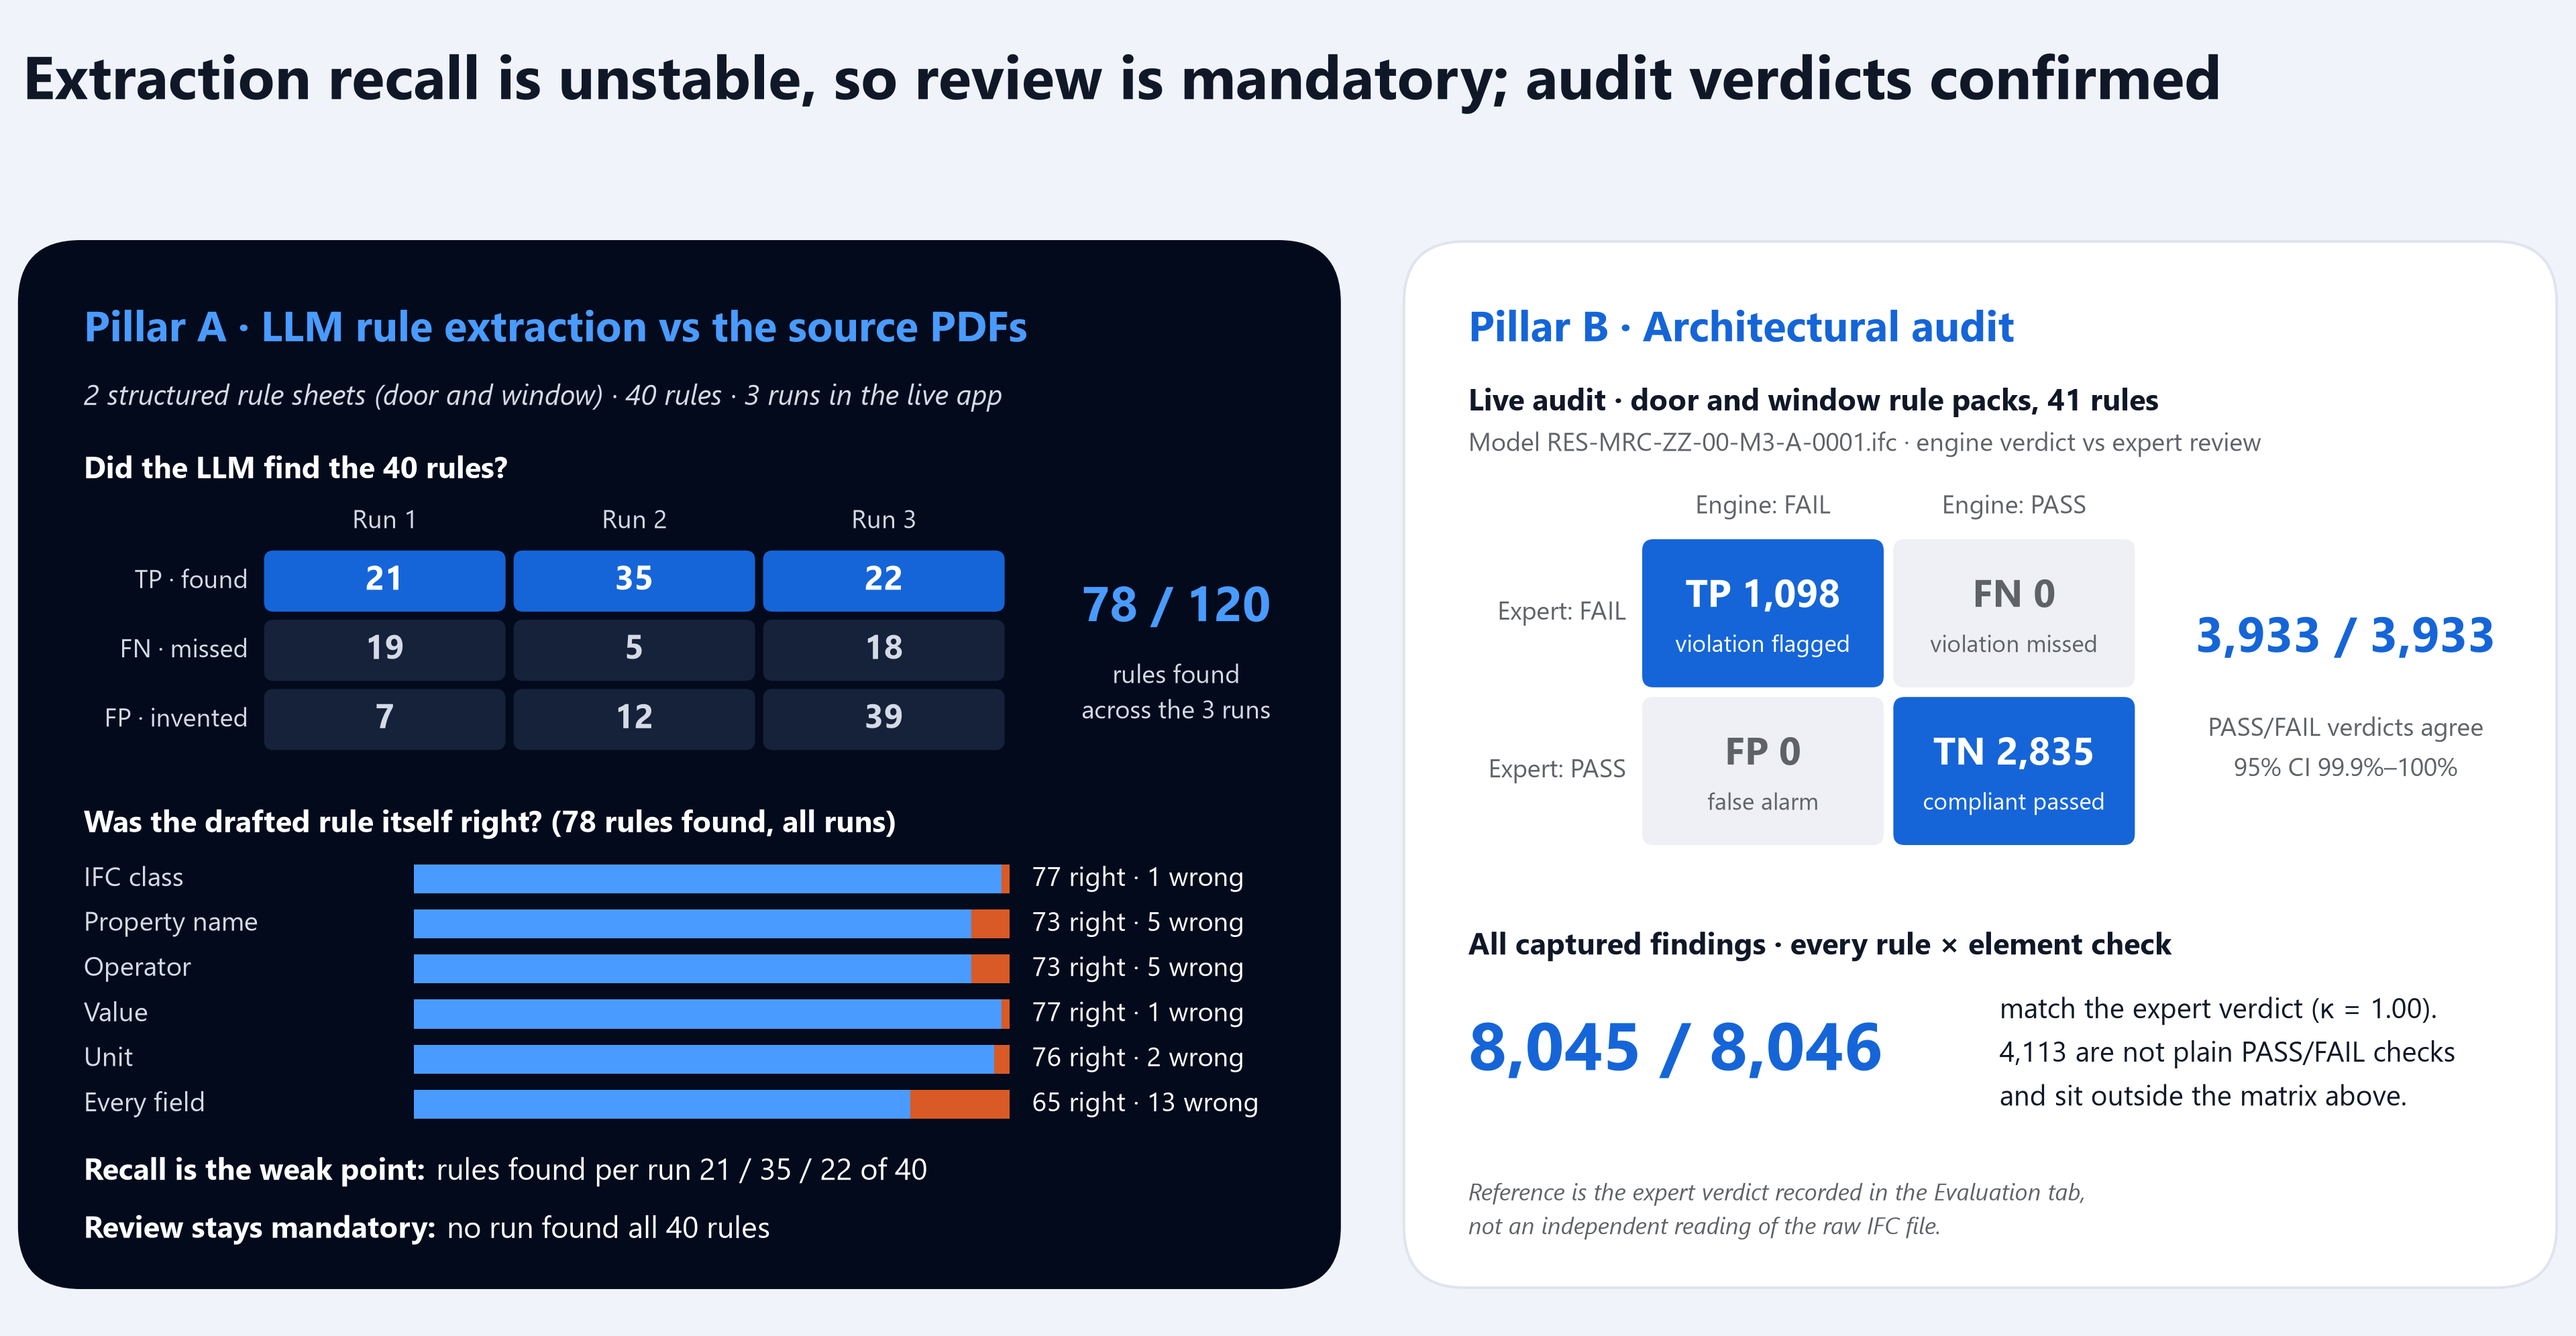
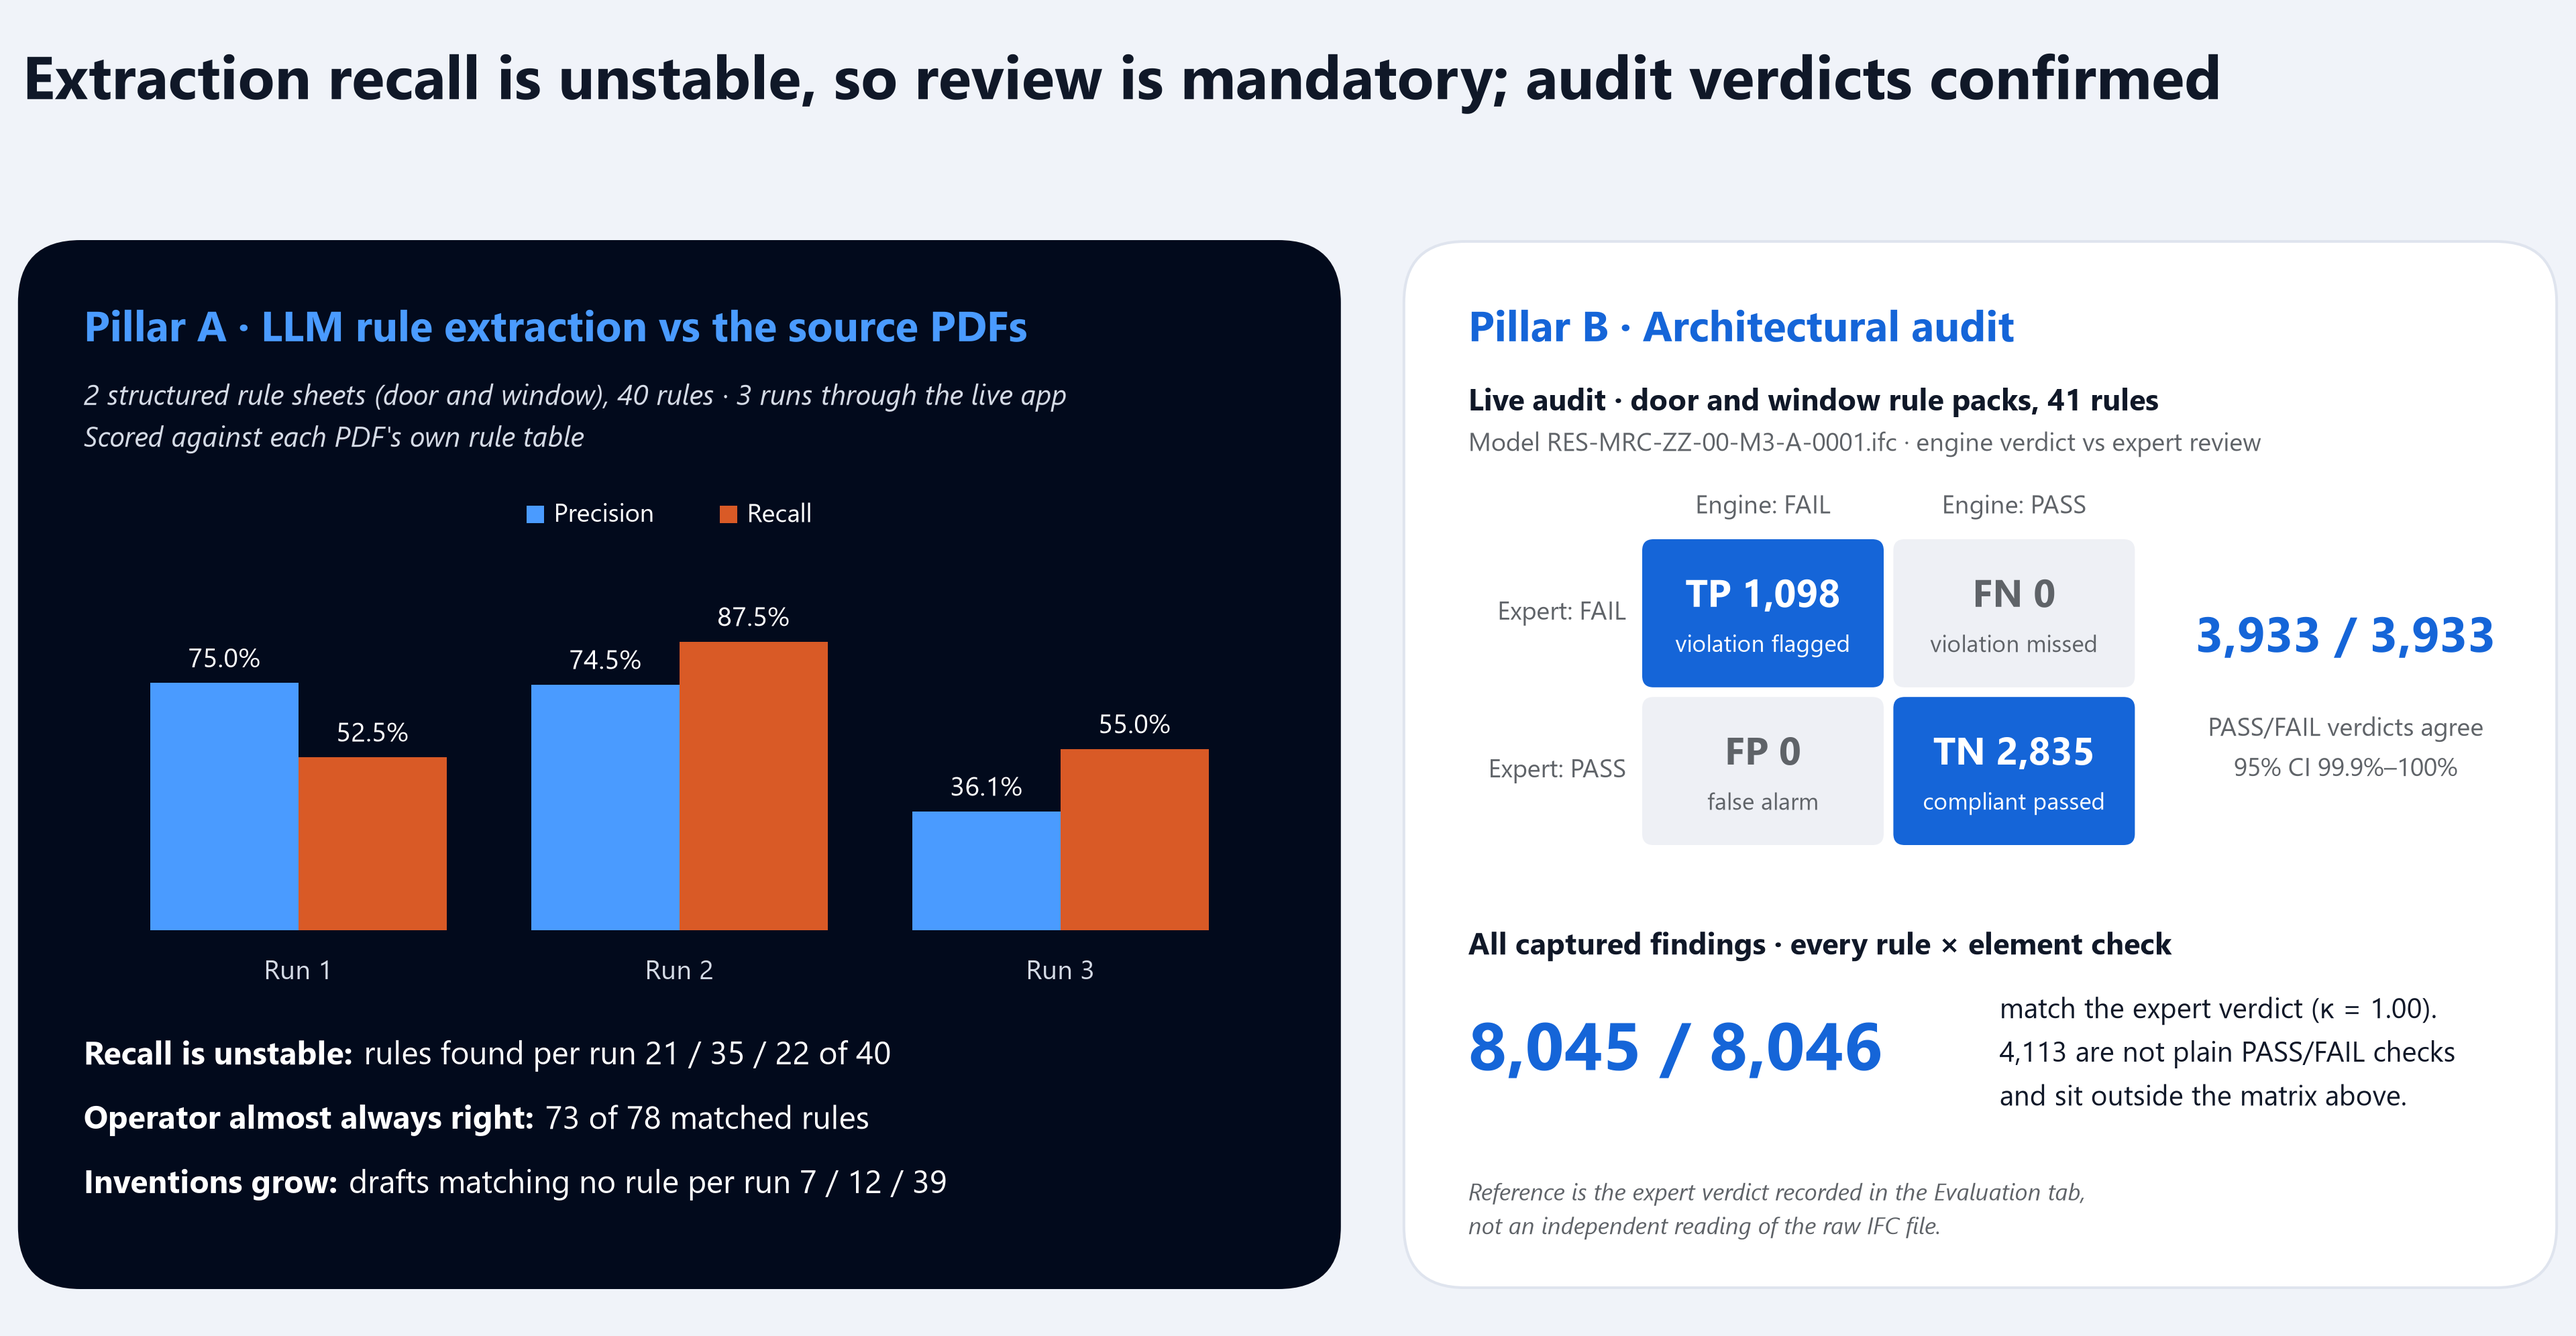
Two-pillar summary figure: show Pillar A as precision and recall bars per run

Changed region(s): [[0.0312, 0.3735, 0.5, 0.9337], [0.0312, 0.3112, 0.2188, 0.3735], [0.25, 0.2801, 0.4062, 0.3112]]

diff --git a/eval/plot_pillars_summary.py b/eval/plot_pillars_summary.py
@@ -89,48 +89,36 @@ def draw_extraction(ax, d: dict, x0: float, x1: float, y0: float, y1: float) -> 
     x = x0 + 40
     ax.text(x, y0 + 55, "Pillar A · LLM rule extraction vs the source PDFs", fontsize=19, fontweight="bold",
             color=BLUE_ON_NAVY, va="center")
-    ax.text(x, y0 + 97, f"{len(sheets)} structured rule sheets ({' and '.join(sorted(sheets))}) · {gold} rules · "
-            f"{len(runs)} runs in the live app", fontsize=12.5, style="italic", color=PALE, va="center")
-
-    ax.text(x, y0 + 142, f"Did the LLM find the {gold} rules?", fontsize=13.5, fontweight="bold", color=WHITE,
+    ax.text(x, y0 + 97, f"{len(sheets)} structured rule sheets ({' and '.join(sorted(sheets))}), {gold} rules · "
+            f"{len(runs)} runs through the live app", fontsize=12.5, style="italic", color=PALE, va="center")
+    ax.text(x, y0 + 123, "Scored against each PDF's own rule table", fontsize=12.5, style="italic", color=PALE,
             va="center")
-    gx, gy, cw, ch, gap = x + 112, y0 + 192, 150, 38, 5
-    rows = (("TP · found", "found", True), ("FN · missed", "missed", False), ("FP · invented", "invented", False))
-    for j, run in enumerate(runs):
-        cx = gx + j * (cw + gap)
-        ax.text(cx + cw / 2, gy - 18, run["label"], fontsize=11.5, color=PALE, ha="center", va="center")
-        for i, (_, key, on) in enumerate(rows):
-            ax.add_patch(FancyBboxPatch((cx, gy + i * (ch + gap)), cw, ch, boxstyle="round,pad=0,rounding_size=6",
-                                        facecolor=BLUE if on else "#16213a", edgecolor="none"))
-            ax.text(cx + cw / 2, gy + i * (ch + gap) + ch / 2, str(run[key]), fontsize=15, fontweight="bold",
-                    color=WHITE if on else PALE, ha="center", va="center")
-    for i, (label, _, _) in enumerate(rows):
-        ax.text(gx - 10, gy + i * (ch + gap) + ch / 2, label, fontsize=11.5, color=PALE, ha="right", va="center")
-    side = (gx + len(runs) * (cw + gap) + x1) / 2
-    ax.text(side, gy + 36, f"{found} / {gold * len(runs)}", fontsize=22, fontweight="bold", color=BLUE_ON_NAVY,
-            ha="center", va="center")
-    ax.text(side, gy + 78, "rules found", fontsize=11.5, color=PALE, ha="center", va="center")
-    ax.text(side, gy + 100, f"across the {len(runs)} runs", fontsize=11.5, color=PALE, ha="center", va="center")
 
-    ax.text(x, y0 + 362, f"Was the drafted rule itself right? ({found} rules found, all runs)", fontsize=13.5,
-            fontweight="bold", color=WHITE, va="center")
-    left, length = x + 205, 370
-    bars = [(label, sum(r["fields_right"][key] for r in runs))
-            for label, key in (("IFC class", "target"), ("Property name", "property"), ("Operator", "operator"),
-                               ("Value", "value"), ("Unit", "unit"))]
-    bars.append(("Every field", sum(r["all_fields_right"] for r in runs)))
-    for i, (label, right) in enumerate(bars):
-        y = y0 + 396 + 28 * i
-        ax.text(x, y, label, fontsize=12, color=PALE, va="center")
-        ax.add_patch(Rectangle((left, y - 9), length, 18, facecolor=ORANGE, edgecolor="none"))
-        ax.add_patch(Rectangle((left, y - 9), length * right / found, 18, facecolor=BLUE_ON_NAVY, edgecolor="none"))
-        ax.text(left + length + 14, y, f"{right} right · {found - right} wrong", fontsize=12, color=WHITE, va="center")
+    mid = (x0 + x1) / 2
+    for dx, color, name in ((-95, BLUE_ON_NAVY, "Precision"), (25, ORANGE, "Recall")):
+        ax.add_patch(Rectangle((mid + dx, y0 + 164), 11, 11, facecolor=color, edgecolor="none"))
+        ax.text(mid + dx + 17, y0 + 170, name, fontsize=11.5, color=WHITE, va="center")
 
-    per_run = " / ".join(str(r["found"]) for r in runs)
-    complete = sum(r["missed"] == 0 for r in runs)
-    _lead(ax, x, y0 + 578, "Recall is the weak point:", f"rules found per run {per_run} of {gold}", WHITE, size=13.5)
-    _lead(ax, x, y0 + 614, "Review stays mandatory:",
-          f"{'no run' if not complete else f'{complete} of {len(runs)} runs'} found all {gold} rules", WHITE, size=13.5)
+    base, full, bar = y0 + 428, 205, 92
+    step = (x1 - x0 - 110) / len(runs)
+    for i, run in enumerate(runs):
+        centre = x0 + 55 + step * (i + 0.5)
+        rates = ((run["found"] / (run["found"] + run["invented"]), BLUE_ON_NAVY), (run["found"] / gold, ORANGE))
+        for j, (value, color) in enumerate(rates):
+            left = centre - bar + j * bar
+            ax.add_patch(Rectangle((left, base - full * value), bar, full * value, facecolor=color, edgecolor="none"))
+            ax.text(left + bar / 2, base - full * value - 14, f"{value:.1%}", fontsize=12, color=WHITE,
+                    ha="center", va="center")
+        ax.text(centre, base + 26, run["label"], fontsize=12, color=PALE, ha="center", va="center")
+
+    def per_run(key):
+        return " / ".join(str(r[key]) for r in runs)
+
+    lines = [("Recall is unstable:", f"rules found per run {per_run('found')} of {gold}"),
+             ("Operator almost always right:", f"{sum(r['fields_right']['operator'] for r in runs)} of {found} matched rules"),
+             ("Inventions grow:", f"drafts matching no rule per run {per_run('invented')}")]
+    for i, (bold, rest) in enumerate(lines):
+        _lead(ax, x, y0 + 506 + 40 * i, bold, rest, WHITE)
 
 
 def draw_audit(ax, m: dict, x0: float, x1: float, y0: float, y1: float) -> None:
